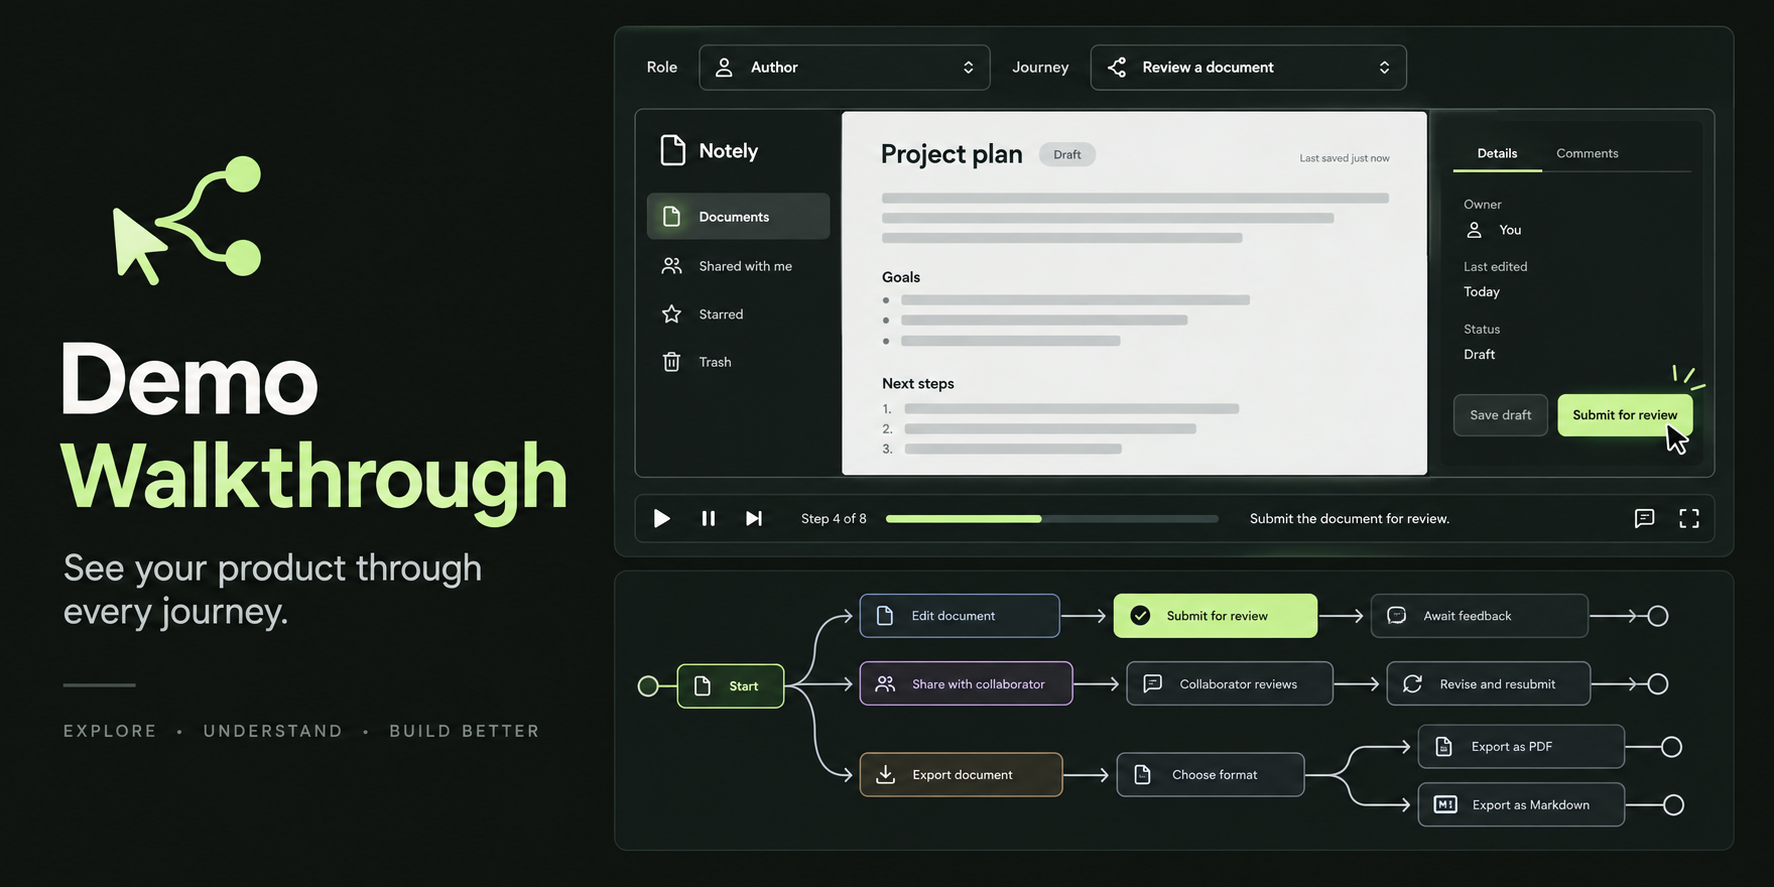
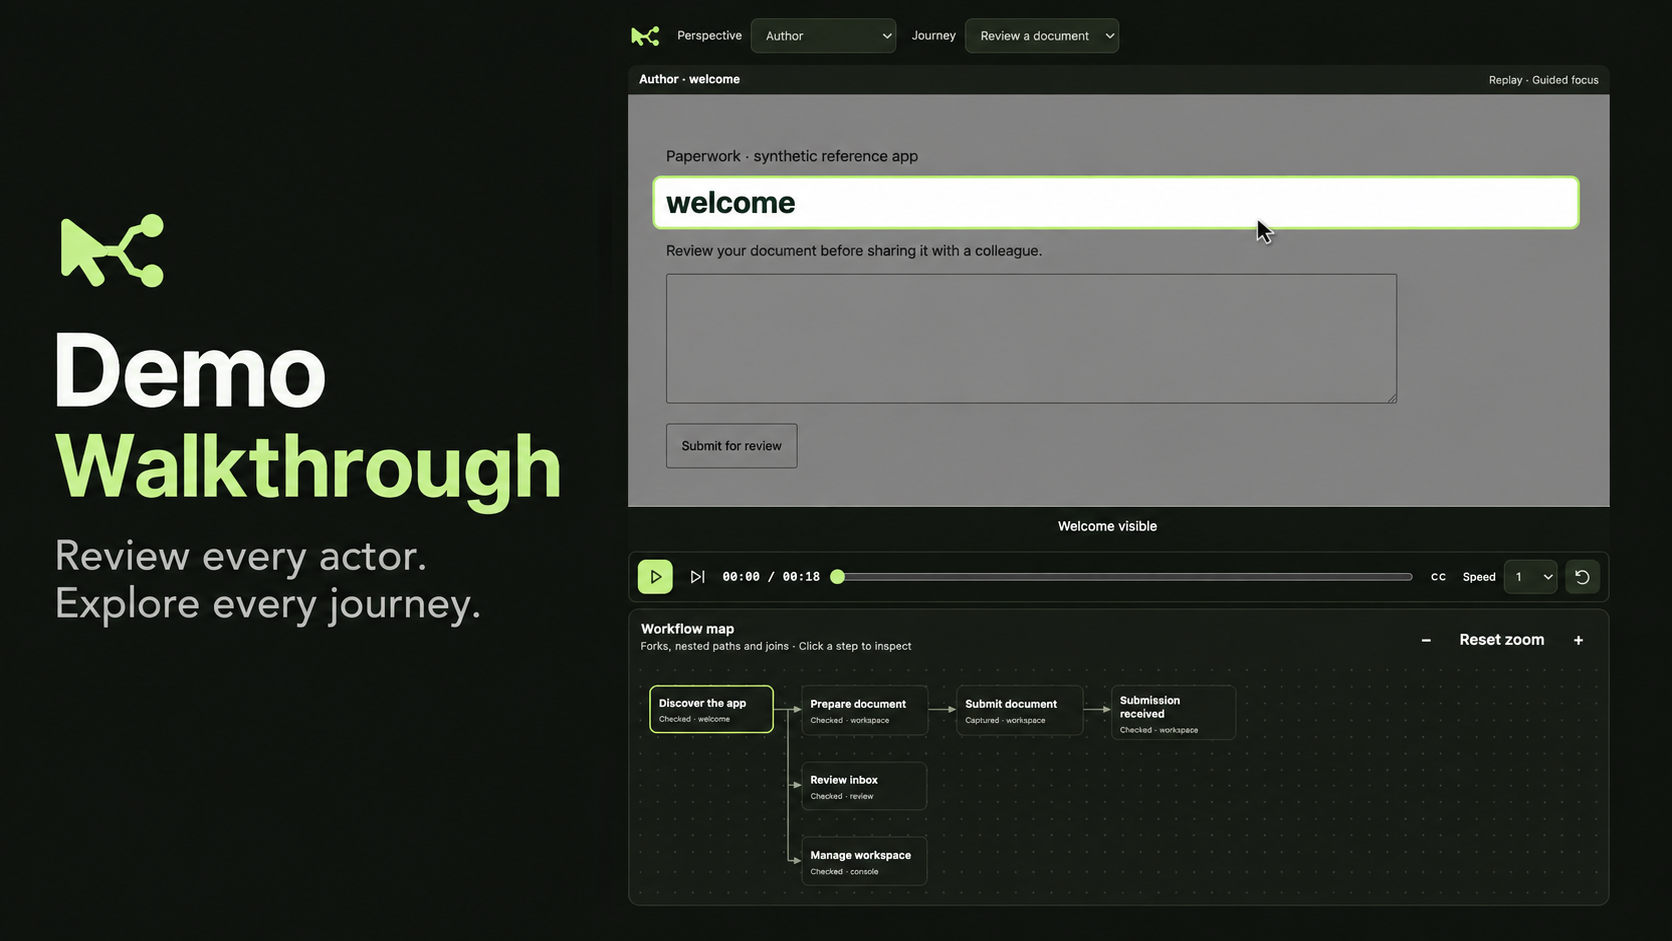
Use actual studio UI in cover and remove duplicate journey heading

diff --git a/src/demo-walkthrough/style.css b/src/demo-walkthrough/style.css
@@ -500,11 +500,11 @@
   .demo-walkthrough-root .wp-workspace {
     min-height: 0;
     display: grid;
-    grid-template-rows: 40px minmax(0, 1fr) auto 156px;
+    grid-template-rows: minmax(0, 1fr) auto 156px;
     gap: 8px;
   }
   .demo-walkthrough-root [data-review="map"] .wp-workspace {
-    grid-template-rows: 40px minmax(0, 1fr) auto minmax(220px, 30dvh);
+    grid-template-rows: minmax(0, 1fr) auto minmax(220px, 30dvh);
   }
   .demo-walkthrough-root .wp-workspace > .wp-row {
     gap: 10px;
@@ -1046,7 +1046,7 @@
 }
 @media (min-width: 801px) {
   .demo-walkthrough-root .workflow-player[data-review="map"] .wp-workspace {
-    grid-template-rows: 24px minmax(0, 1fr) auto minmax(220px, 30dvh);
+    grid-template-rows: minmax(0, 1fr) auto minmax(220px, 30dvh);
   }
 }
 

diff --git a/src/demo-walkthrough/index.tsx b/src/demo-walkthrough/index.tsx
@@ -128,12 +128,6 @@ export function DemoWalkthroughStudio() {
             </section>
           ) : (
             <section className="wp-workspace">
-              <div className="wp-row">
-                <div>
-                  <h2>{journeyTitle(workflow.id, actor, workflow.title)}</h2>
-                  <p>{workflow.description}</p>
-                </div>
-              </div>
               <p className="wp-note" aria-live="polite">
                 Now showing {names[node.surface]} · {node.label}
               </p>
